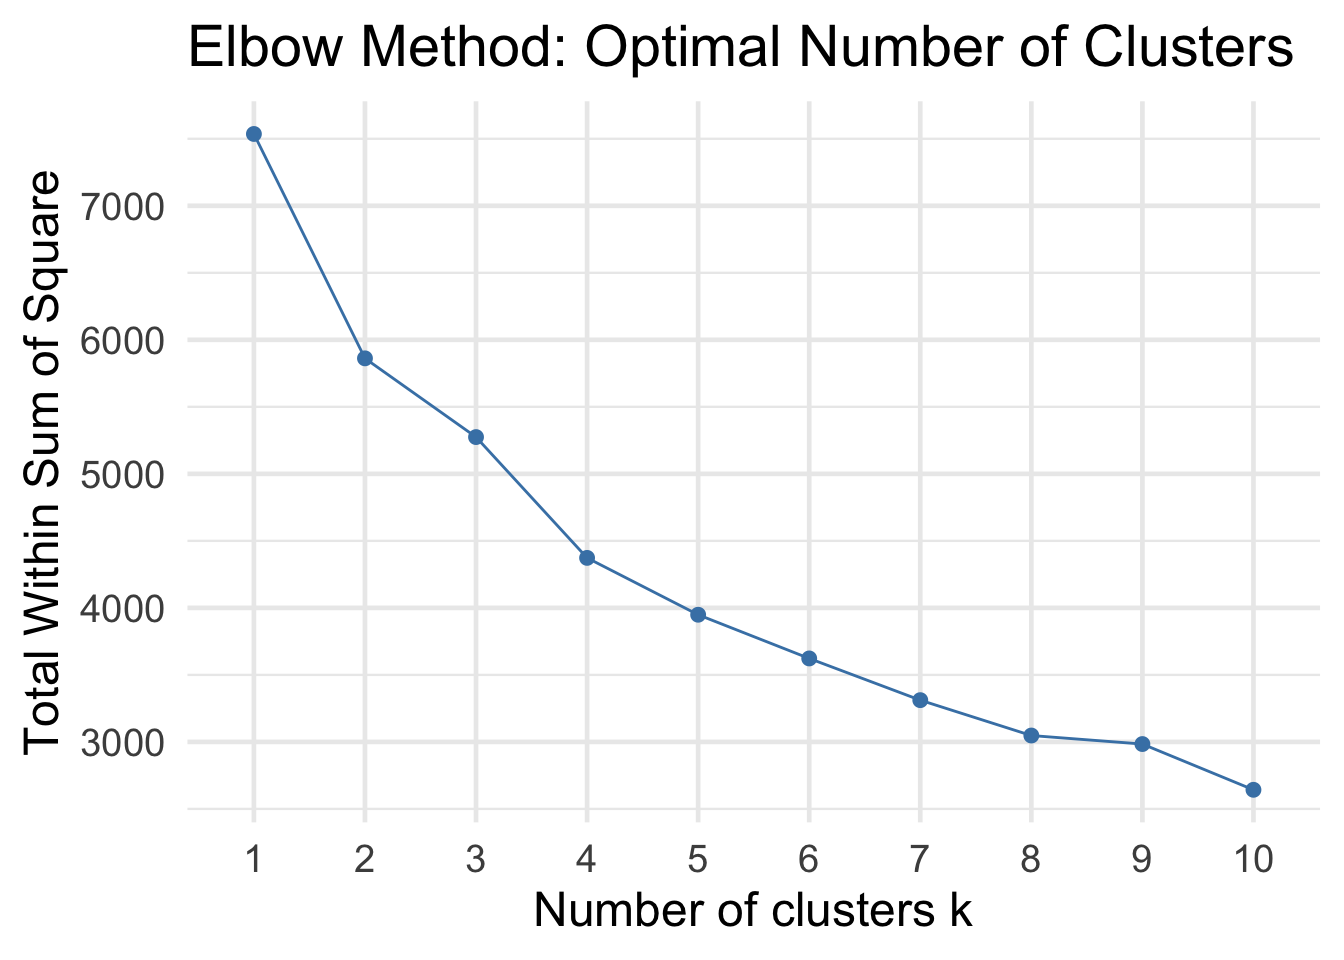
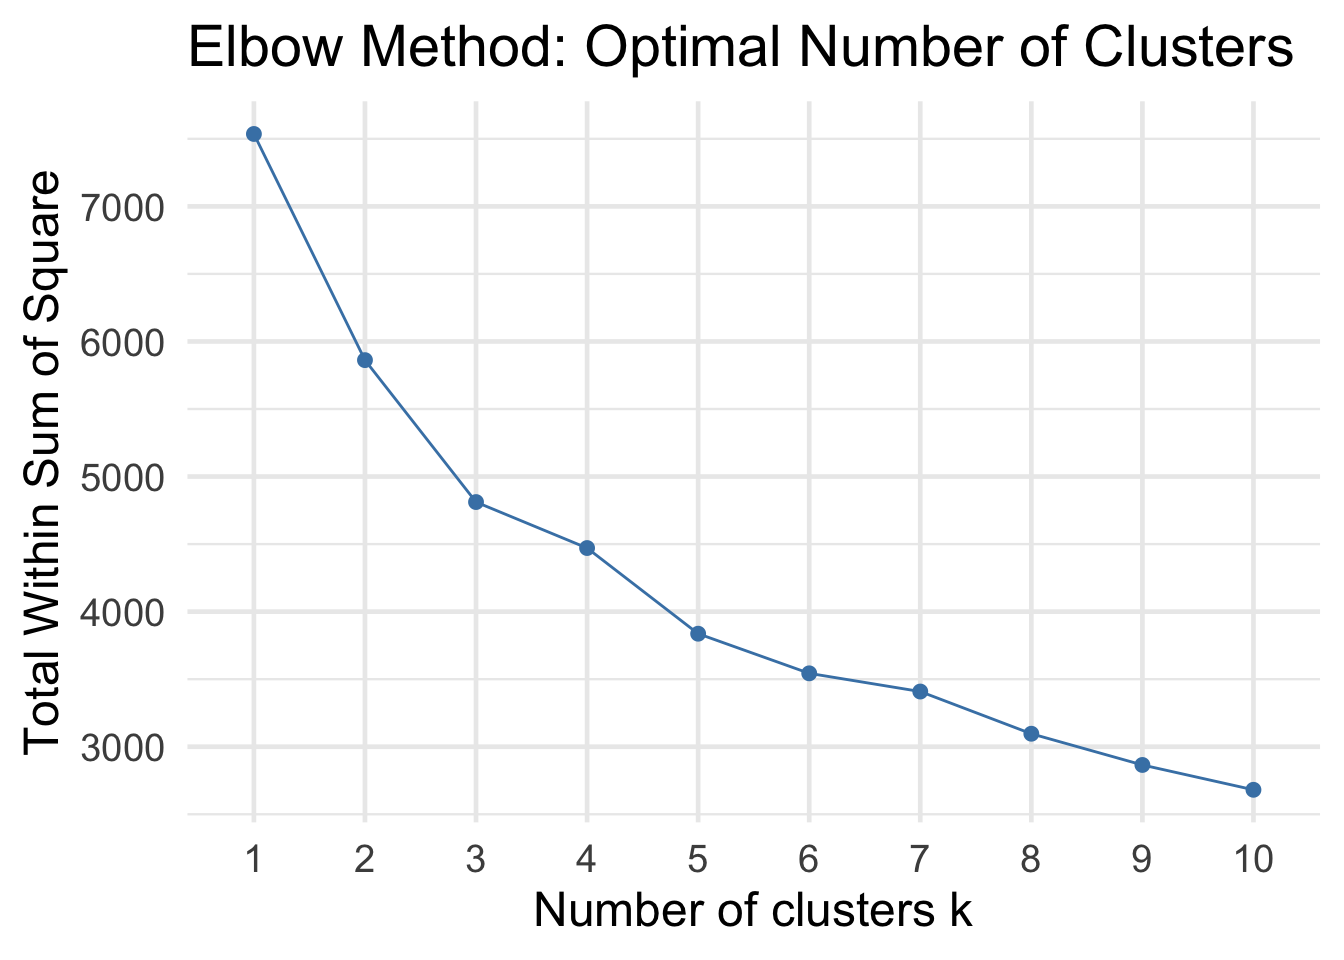
Fix navbar Assignment 3

diff --git a/_site/Labs/Lab01.html b/_site/Labs/Lab01.html
@@ -324,7 +324,7 @@ pre > code.sourceCode > span > a:first-child::before { text-decoration: underlin
 <span id="cb27-4"><a href="#cb27-4" aria-hidden="true" tabindex="-1"></a></span>
 <span id="cb27-5"><a href="#cb27-5" aria-hidden="true" tabindex="-1"></a><span class="fu">cor</span>(x,y) <span class="co"># Correlation of x and y</span></span></code></pre></div><button title="Copy to Clipboard" class="code-copy-button"><i class="bi"></i></button></div>
 <div class="cell-output cell-output-stdout">
-<pre><code>[1] 0.9917702</code></pre>
+<pre><code>[1] 0.9944461</code></pre>
 </div>
 <div class="code-copy-outer-scaffold"><div class="sourceCode cell-code" id="cb29"><pre class="sourceCode r code-with-copy"><code class="sourceCode r"><span id="cb29-1"><a href="#cb29-1" aria-hidden="true" tabindex="-1"></a><span class="fu">set.seed</span>(<span class="dv">1303</span>) <span class="co"># Set the seed for Random Number Generator (RNG) to generate values that are reproducible.</span></span>
 <span id="cb29-2"><a href="#cb29-2" aria-hidden="true" tabindex="-1"></a><span class="fu">rnorm</span>(<span class="dv">50</span>)</span></code></pre></div><button title="Copy to Clipboard" class="code-copy-button"><i class="bi"></i></button></div>

diff --git a/_site/Labs/Lab02.html b/_site/Labs/Lab02.html
@@ -492,7 +492,7 @@ pre > code.sourceCode > span > a:first-child::before { text-decoration: underlin
 <div class="cell-output cell-output-stdout">
 <pre><code>
 The downloaded binary packages are in
-    /var/folders/bk/srbxgj315jq00z3fyn7nhvgm0000gn/T//Rtmpc7UTM5/downloaded_packages</code></pre>
+    /var/folders/bk/srbxgj315jq00z3fyn7nhvgm0000gn/T//Rtmp5ZCwWz/downloaded_packages</code></pre>
 </div>
 <div class="code-copy-outer-scaffold"><div class="sourceCode cell-code" id="cb49"><pre class="sourceCode r code-with-copy"><code class="sourceCode r"><span id="cb49-1"><a href="#cb49-1" aria-hidden="true" tabindex="-1"></a><span class="fu">lapply</span>(ptbu, require, <span class="at">character.only =</span> <span class="cn">TRUE</span>)</span></code></pre></div><button title="Copy to Clipboard" class="code-copy-button"><i class="bi"></i></button></div>
 <div class="cell-output cell-output-stderr">
